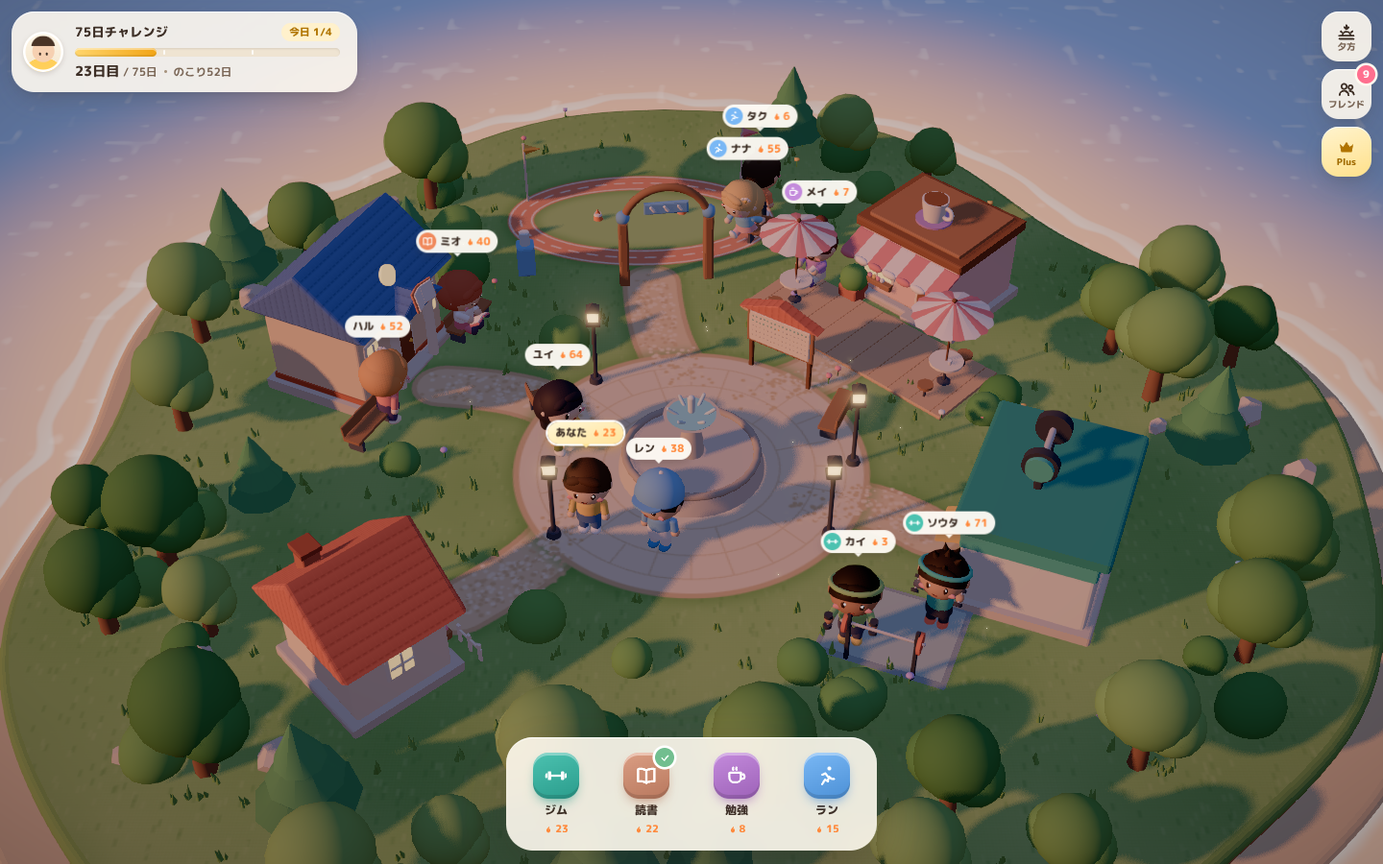
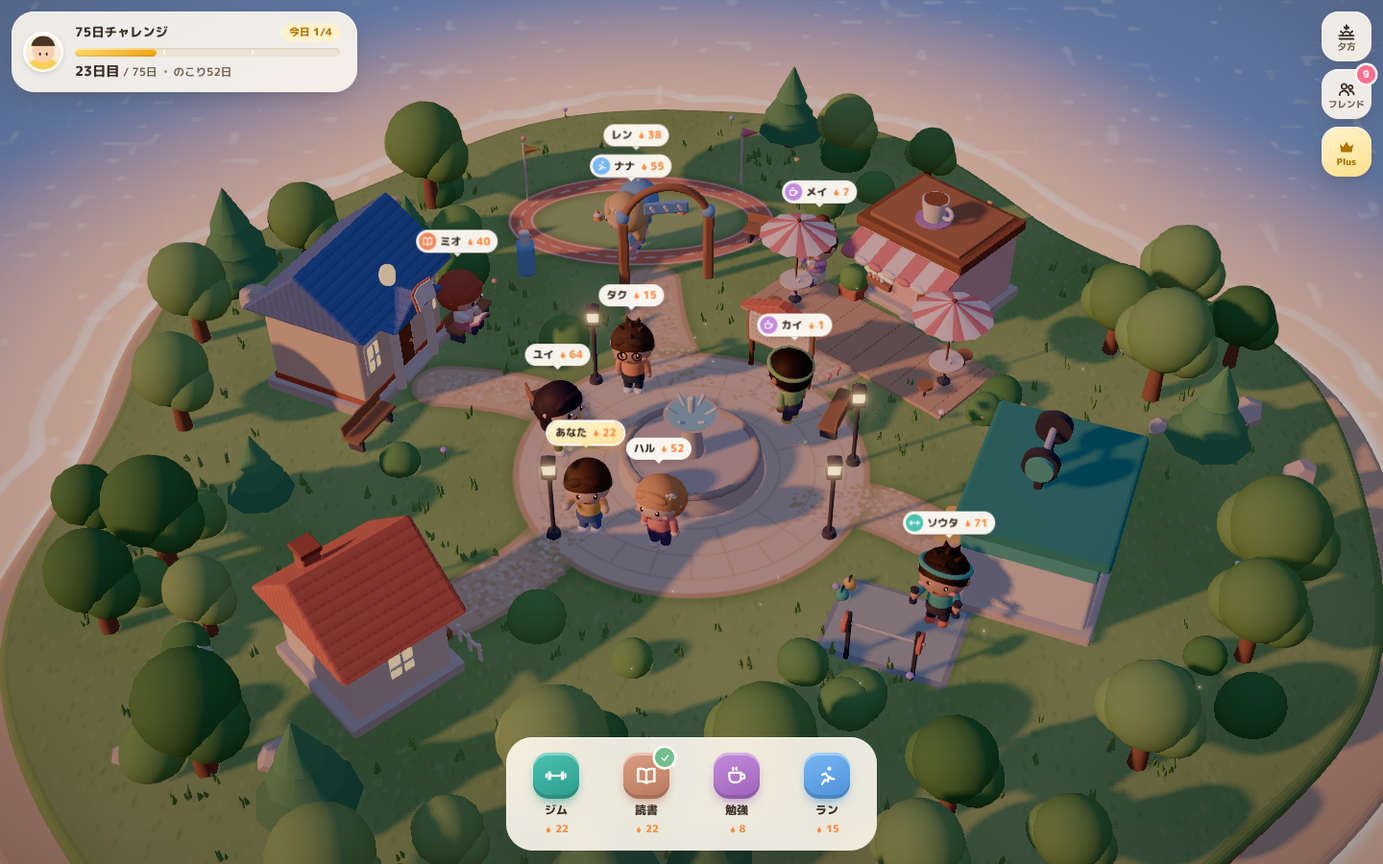
Habit Town: revise LP/ad plans for 75 days, fix starting gym streak, reshoot screenshots
Claude-Session: https://claude.ai/code/session_0146dGXZraJYKmCTfuWKbKM6

diff --git a/projects/habit-town/app/src/data/habits.ts b/projects/habit-town/app/src/data/habits.ts
@@ -76,7 +76,7 @@ const rawPeople: Omit<Person, 'slot'>[] = [
       accent: '#ffcf5a',
     },
     day: 23,
-    streaks: s(23, 22, 8, 15),
+    streaks: s(22, 22, 8, 15),
     activity: null,
     since: now,
   },

diff --git a/projects/habit-town/stages/03_lp/lp-copy-abc.md b/projects/habit-town/stages/03_lp/lp-copy-abc.md
@@ -1,9 +1,14 @@
 # LPコピー A/B/C — Habit Town（事前登録・ウェイトリスト）
 
-- 作成: カエデ / 2026-11-12
+- 作成: カエデ / 2026-11-12（同日改訂: チャレンジを「75週」から「**75日**」に訂正）
 - 目的: G1のCPA検証用（`../04_cpa/test-plan.md`）。広告の切り口ごとに専用のLPを1枚ずつ用意する（`/a`・`/b`・`/c`）
 - フォーム: **メール欄1つだけ**（ほかの項目を足すとCVRが落ちるため）。送信すると `/thanks`（招待リンク＋アンケート1問）へ進む
 - 素材の置き場: `projects/habit-town/app/docs/screenshots/`（以下、`ss/` と略す）。動画IDは `ad-creatives.md` を参照
+
+> **重要: スクショは撮り直しが必要**
+> いまリポジトリにある `ss/*.png` の6枚は、**修正前のデータ**（「75週チャレンジ・第12週」「🔥201」「🔥300」など）のまま。
+> そのまま使うと「75週」の表記が出てしまうので、**修正後のアプリで同じファイル名・同じ構図のまま撮り直してから**使う（下の「依存事項」を参照）。
+> この文書に書いた画面上の数値は、修正後のサンプルデータに合わせてある。
 
 ---
 
@@ -14,15 +19,15 @@
 | CTAの文言 | 3案とも同じ **「無料で事前登録」** にする（切り口以外の差をなくすため）。その下に置く一言（マイクロコピー）だけを案ごとに変える |
 | 開発中の表記 | ファーストビューのラベル「開発中・事前登録受付中」と、画像の下の注記「※画面は開発中のものです」を全案に入れる |
 | 未実装の機能 | **すでに使える機能のように書かない**。ラベルは2段階に分ける<br>・`開発予定`：作ることが決まっている機能（ジム到着の自動記録、ランのGPS計測）<br>・`構想中`：作るかどうかを登録者の声で決める機能（SNS・動画の使用時間、友達と会った回数アルバム） |
-| プロトタイプにある機能の書き方 | 町・キャラの移動・お祝い・友達の状況と連続日数・拍手とハート・朝昼夕夜の時間帯は、プロトタイプで動いている。ただしアプリ自体は未公開なので、「〜できます」ではなく **「〜できる町を作っています」「リリース時に使えます」** と書く |
+| プロトタイプにある機能の書き方 | 町・キャラの移動・お祝い・友達の状況と連続日数・拍手とハート・朝昼夕夜の時間帯・75日チャレンジの進捗カードは、プロトタイプで動いている。ただしアプリ自体は未公開なので、「〜できます」ではなく **「〜できる町を作っています」「リリース時に使えます」** と書く |
 | 料金 | 「基本無料。着せ替えなどの有料プラン（月額¥480の予定）あり」。予定であることを明記する |
 | 飲酒 | 飲み会・お酒の話題はLPに出さない。人と会う話題は「友達と会った回数」に統一する |
-| 撮影時の注意 | プロトタイプの画面上部には「75週チャレンジ」のカードが常に出る。**A・BのLPと動画では、このカードをトリミングで外すか、タクミに撮影用のフラグ（例: `?hud=minimal`）を追加してもらう**（下の「依存事項」を参照） |
+| 撮影時の注意 | プロトタイプの画面上部には「75日チャレンジ 23日目／75日・のこり52日」のカードが常に出る。**A・Bでは、このカードがCの訴求（期限つきのチャレンジ）を画面に持ち込んでしまい、切り口の比較が混ざる**。そのため、A・BのLPと動画ではカードをトリミングで外すか、タクミに撮影用のフラグ（例: `?hud=minimal`）を追加してもらう。Cではこのカードを主役として使う |
 
 ### 共通セクション：データの扱い（3案とも、料金の前に入れる）
 
 > **あなたのデータは、あなたが決める。**
-> - **地図に現在地は出ません。** 町で友達に見えるのは「ジムで筋トレ中・201日連続」のような、**いまの習慣と連続日数だけ**です。
+> - **地図に現在地は出ません。** 町で友達に見えるのは「ジムで筋トレ中・71日連続」のような、**いまの習慣と連続日数だけ**です。
 > - 見えるのは**フォローし合った友達だけ**。知らない人に公開されることはありません。
 > - 位置情報を使う「ジム到着の自動記録」（開発予定）は、**オンにした人だけ**が使う機能です。使うのは「ジムに着いたかどうか」の判定だけで、移動の履歴を友達に共有することはありません。
 > - SNSや動画の使用時間（構想中）は、**自分で連携をオンにしない限り取得しません**。ランキングに出すかどうかも自分で選べます。
@@ -46,6 +51,7 @@
 - **無料ですか？** → 基本無料です。着せ替えなどの有料プラン（月額¥480の予定）があります。
 - **iPhone・Androidのどちらで使えますか？** → 両方に対応する予定です。
 - **友達がいなくても使えますか？** → 使えます。町はひとりでも動きます。
+- **75日が終わったら？**（Cでは上位に置く）→ 町とキャラはそのまま残り、次の75日を始められる予定です。
 
 ---
 
@@ -57,13 +63,13 @@
 - サブコピー: 習慣を記録すると、あなたのキャラがジムや図書館へ歩いていく。フォローし合った友達も同じ町に住んでいて、**いま何をしていて、何日続いているか**が一目で分かる。
 - CTA: **［無料で事前登録］**
 - CTAの下の一言: 居場所ではなく、がんばりをシェアする町。登録はメールアドレスだけ。
-- ビジュアル: 動画 **V-A1** の冒頭6秒をループ再生（無音・自動再生）。静止画のフォールバックは `ss/mobile-town.png`（名札と🔥連続日数がたくさん見える構図）。画面上部のチャレンジカードはトリミングで外す
+- ビジュアル: 動画 **V-A1** の冒頭6秒をループ再生（無音・自動再生）。静止画のフォールバックは、撮り直した `ss/mobile-town.png`（名札と🔥連続日数がたくさん見える構図）。上部のチャレンジカードはトリミングで外す
 
 ### セクション構成
 1. ファーストビュー（上記）
-2. **「いま、町では」** — `ss/mobile-friends.png` を使い、「ハル 読書中🔥88／ソウタ 筋トレ中🔥201」が並ぶ画面で、**友達の今**を見せる。コピー:「LINEで『今日やった？』と聞かなくても、町を見れば分かる。」
-3. **3ステップ** — ①習慣をタップ ②キャラが歩いていく ③着いたらお祝い（`ss/mobile-celebrate.png`、または V-A1 の5〜9秒）
-4. **応援は1タップ** — `ss/desktop-night-profile.png`（ソウタのプロフィールと拍手・ハートのボタン、ハートが飛んでいる画面）。コピー:「コメントを考えなくていい。拍手かハートを送るだけ。」
+2. **「いま、町では」** — 撮り直した `ss/mobile-friends.png` を使い、「ハル 読書中🔥52／ソウタ 筋トレ中🔥71」が並ぶ画面で、**友達の今**を見せる。コピー:「LINEで『今日やった？』と聞かなくても、町を見れば分かる。」
+3. **3ステップ** — ①習慣をタップ ②キャラが歩いていく ③着いたらお祝い（撮り直した `ss/mobile-celebrate.png`、または V-A1 の12〜14秒）
+4. **応援は1タップ** — 撮り直した `ss/desktop-night-profile.png`（ソウタのプロフィールと拍手・ハートのボタン、ハートが飛んでいる画面）。コピー:「コメントを考えなくていい。拍手かハートを送るだけ。」
 5. **夜は街灯が灯る** — 夜の町の動画カット。コピー:「夜、町を開くと、まだがんばっている友達がいる。」
 6. **データの扱い**（共通セクション）← **Aの層は位置情報アプリに慣れているので、この節をAでは上に寄せて、4の直後に置く**
 7. これから作る機能（共通セクション）
@@ -88,15 +94,15 @@
 - サブコピー: 読書なら図書館へ、運動ならジムへ。小さな町に住むあなたのキャラが、毎日の積み重ねを一緒によろこんでくれる習慣アプリ。
 - CTA: **［無料で事前登録］**
 - CTAの下の一言: がんばれなかった日も、キャラは広場で待っています。登録はメールアドレスだけ。
-- ビジュアル: 動画 **V-B1**（自分のキャラをカメラが追いかけ、図書館で座って本を開くまで）。静止画は `ss/mobile-celebrate.png` を自分のキャラ中心にトリミングしたもの
+- ビジュアル: 動画 **V-B1**（自分のキャラをカメラが追いかけ、カフェで座ってノートを書くまで）。静止画は、撮り直した `ss/mobile-celebrate.png` を自分のキャラ中心にトリミングしたもの
 
 ### セクション構成
 1. ファーストビュー（上記）
-2. **3ステップ** — ①習慣をタップ ②キャラがトコトコ歩く ③着いたら紙吹雪と「◯日連続！」（`ss/mobile-celebrate.png`）
+2. **3ステップ** — ①習慣をタップ ②キャラがトコトコ歩く ③着いたら紙吹雪と「◯日連続！」（撮り直した `ss/mobile-celebrate.png`）
 3. **続けるほど、町に花が咲く** — お祝いのたびに花が生える様子（動画カット）。コピー:「チェックマークの代わりに、花が増えていく。」
 4. **場所ごとにキャラの過ごし方が違う** — ジムではダンベル、図書館では読書、カフェではノートを書いてカップを持ち上げる、公園ではトラックを走る（4カットのグリッド）
-5. **朝と夜で町が変わる** — `ss/desktop-noon.png` → `ss/desktop-evening.png` → 夜（街灯とホタル）。コピー:「朝のジムも、夜の読書も。あなたの時間に町が合わせてくれる。」
-6. **ひとりでも、友達とでも** — 友達は**いてもいなくても使える**ことを先に言い、そのうえで「仲良しの友達だけを町に招待できる」と短く触れる（`ss/mobile-friends.png` を小さく）
+5. **朝と夜で町が変わる** — 撮り直した `ss/desktop-noon.png` → `ss/desktop-evening.png` → 夜（街灯とホタル）。コピー:「朝のジムも、夜の読書も。あなたの時間に町が合わせてくれる。」
+6. **ひとりでも、友達とでも** — 友達は**いてもいなくても使える**ことを先に言い、そのうえで「仲良しの友達だけを町に招待できる」と短く触れる（撮り直した `ss/mobile-friends.png` を小さく）
 7. データの扱い（共通）
 8. これから作る機能（共通）
 9. 料金・FAQ（共通）
@@ -112,50 +118,60 @@
 
 ---
 
-## C：75週チャレンジ（今の案、自己改善層）
+## C：75日チャレンジ（今の案、自己改善層）— 作り直し
+
+### 方針
+75日は約2か月半。**終わりが見えている**ことが最大の武器になる。プロトタイプの上部カード「23日目／75日・のこり52日」と進捗バーが、そのまま「期限の見える自己改善」の絵になる。
+訴求の軸は **「75日で自分を変えにいく」×「のこり◯日が毎日見える」×「同じ町に、ゴール直前の友達がいる」**。
+（テスト期間は11月下旬。年末年始の「来年こそ」の時期に向かうので、季節も追い風）
 
 ### ファーストビュー
 - ラベル: `習慣アプリ｜開発中・事前登録受付中`
-- **見出し: 75週チャレンジを、ひとりで終わらせない。**
-- サブコピー: ジム・読書・勉強・ランを525日（約1年5か月）。記録するたびにあなたのキャラが町を歩き、続けるほど町に花が咲く。同じ町の友達と、連続日数で励まし合える。
+- **見出し: 75日で、自分を変えにいく。**
+- サブコピー: ジム・読書・勉強・ランを75日。記録するたびにあなたのキャラが町を歩き、「のこり◯日」がひと目で分かる。同じ町の友達と、連続日数で励まし合える。
 - CTA: **［無料で事前登録］**
-- CTAの下の一言: 75日で終わらない、本気の人へ。登録はメールアドレスだけ。
-- ビジュアル: 動画 **V-C1**。静止画は `ss/mobile-town.png` を、上部の「第12週／75週・80日目」のカードとドックの🔥の数字が主役になるようにトリミングしたもの
+- CTAの下の一言: ゴールは75日後。登録はメールアドレスだけ。
+- ビジュアル: 動画 **V-C1**。静止画は、撮り直した `ss/mobile-town.png` を、上部のカード「23日目／75日・のこり52日」と進捗バー、ドックの🔥の数字が主役になるようにトリミングしたもの
 
 ### セクション構成
 1. ファーストビュー（上記）
-2. **75週チャレンジとは** — 4つの習慣（ジム・読書・勉強・ラン）を75週間続ける。進捗バーと「第◯週／75週」で現在地が分かる（チャレンジカードを拡大）
-3. **3ステップ**（記録→移動→お祝い）
-4. **続けている人が町にいる** — 名札の🔥（201・300など）を見せる。コピー:「300日続けている人が、隣の家に住んでいる。」※ 画面の人物はサンプルであることを注記する
-5. **途切れそうな日の保険** — Plusの「ストリーク保護（月2回まで）」は**有料プランの予定**として紹介する（`予定` ラベルを付ける）
-6. データの扱い（共通）
-7. これから作る機能（共通）— Cでは「ランのGPS計測（開発予定）」を先頭に置く
-8. 料金・FAQ（共通）
-9. 最後のCTA:「第1週は、登録した日から。」［無料で事前登録］
+2. **ルールはシンプル** — 4つの習慣（ジム・読書・勉強・ラン）を75日。上部のカードの「◯日目／75日・のこり◯日」と進捗バーで、いまどこにいるかが毎日分かる（カードを拡大して見せる）。コピー:「終わりが見えるから、今日もやれる。」
+3. **3ステップ**（記録→移動→お祝い）。「今日 1/4 → 2/4」と、今日のノルマが埋まっていく様子を見せる
+4. **ゴール直前の友達が、同じ町にいる** — ソウタ（71日目・ジム🔥71）のプロフィール。コピー:「隣の家のソウタは、あと4日でゴール。」※ 画面の人物はサンプルであることを注記する
+5. **75日目に何が起きる？** — **書かない／約束しない**。完走時の特別な演出はまだ実装していないので、「完走したら町に◯◯が建つ」などとは書かない。どうしても触れるなら「完走のお祝いを準備中（開発予定）」と表記する
+6. **途切れそうな日の保険** — Plusの「ストリーク保護（月2回まで）」は**有料プランの予定**として紹介する（`予定` ラベルを付ける）
+7. データの扱い（共通）
+8. これから作る機能（共通）— Cでは「ランのGPS計測（開発予定）」を先頭に置く
+9. 料金・FAQ（共通。「75日が終わったら？」を先頭に置く）
+10. 最後のCTA:「1日目は、登録した日から数えはじめよう。」［無料で事前登録］
 
 ### 表現の注意（C固有）
-- 体型の変化やビフォーアフターを約束しない（媒体の審査と景品表示法のリスクがある）。「別人になる」「痩せる」は使わない。
-- 75 Hard（海外の過酷系チャレンジ）の名前は使わない（他社のブランドであり、イメージも「過酷」に寄るため）。
+- 「人生が変わる」「別人になる」と**結果を約束しない**。「変えにいく」「本気の75日」のように、本人の意思として書く。
+- 体型の変化やビフォーアフター、「痩せる」は使わない（媒体の審査と景品表示法のリスクがある）。
+- 75 Hard（海外の過酷系チャレンジ）の名前は使わない。他社のブランドであり、本家のルール（食事制限・禁酒など）を連想させるため。食事や飲酒のルールには一切触れない。
+- 「75日やらないと意味がない」のように、脱落者を責める言い方はしない。
 
-### 1秒テストの自己採点：**2.5 / 5**
+### 1秒テストの自己採点：**4.0 / 5**（改訂前の「75週」版は2.5）
 | 観点 | 点 | 理由 |
 |---|---|---|
-| 見出しだけで「何か」が分かる（2点） | 1 | 「75週チャレンジ」を知らない人には説明が必要。75週＝約1年5か月という長さも一瞬では分からない |
-| 自分ごとになる（1点） | 0.5 | 刺さる人には強く刺さるが、母数が小さい。「長すぎる」と感じて離脱する人も出る |
-| 絵だけで差別化が分かる（1点） | 0.5 | 箱庭の絵は強いが、コピーがチャレンジの話なので、絵とメッセージが噛み合いにくい |
-| CTAが明確（1点） | 0.5 | 「無料で事前登録」は明確だが、「75週も続けられるか」という不安が、登録をためらわせる |
+| 見出しだけで「何か」が分かる（2点） | 1.5 | 「75日」と「変えにいく」だけで、期限つきの自己改善だと瞬時に伝わる。ただ、Aと同じく、見出しだけでは習慣アプリだと分からず、ラベルで補っている |
+| 自分ごとになる（1点） | 1 | 75日（約2か月半）は「やれそう」と思える長さ。改訂前の「長すぎる」という弱点が消えた。年末年始の目標を立てる時期とも重なる |
+| 絵だけで差別化が分かる（1点） | 0.5 | 進捗カードと🔥の名札で、絵とメッセージが噛み合うようになった。ただ、カードの文字は小さいので、フィードでは一瞬で読みにくい。「チャレンジの進捗バー」自体は、他のチャレンジアプリにもある |
+| CTAが明確（1点） | 1 | 「ゴールは75日後」で、登録した後の行動がはっきりした |
 
 ---
 
 ## サンクスページ（`/thanks`、3案共通）
 - 見出し:「あなたの家の場所を確保しました。」
 - 本文: 確認メールを送りました。リンクを押すと登録が完了します。
-- **友達を町に招待**（Aの検証で重要）: 招待リンクのコピーボタン。文言「先に町で待ってて、と送る」
+- **友達を町に招待**（Aの検証で重要）: 招待リンクのコピーボタン。文言「先に町で待ってて、と送る」。Cでは「一緒に75日やろう、と送る」
 - アンケート1（1タップ）:「一番欲しいのはどれ？」→ ジム到着の自動記録（開発予定）／ランのGPS計測（開発予定）／スマホ時間の見える化（構想中）／友達と会った回数アルバム（構想中）／特になし
 - アンケート2（1タップ）:「誰と使いたい？」→ ひとりで／友達1〜3人／友達4人以上／恋人・家族
 
 ---
 
-## 依存事項（タクミへの小さな依頼）
-1. 撮影用に、画面上部のチャレンジカードを隠すか文言を差し替えられるURLパラメータ（例: `?hud=minimal`、`?title=`）。A・Bの撮影で「75週チャレンジ」の文字が映り込むのを避けるため。急ぎでなければトリミングで代用する
-2. 撮影時に、時間帯を固定するURLパラメータ（例: `?time=night`）。現在は右上のボタンで切り替えられるので、なくても撮影はできる
+## 依存事項（タクミへの依頼）
+1. **スクショ6枚の撮り直し**（必須）: `ss/` の6枚は修正前のデータのまま。修正後のアプリで、同じファイル名・同じ構図で撮り直す
+2. 撮影用に、上部のチャレンジカードを隠すURLパラメータ（例: `?hud=minimal`）。**A・Bの撮影で「75日チャレンジ」のカードが映ると、Cの訴求（期限つきのチャレンジ）が混ざって、切り口の比較が成り立たなくなる**ため。急ぎでなければトリミングで代用する
+3. 撮影時に、時間帯を固定するURLパラメータ（例: `?time=night`）。現在は右上のボタンで切り替えられるので、なくても撮影はできる
+4. 自分の初期データの小さな矛盾の修正: 「23日目」なのにジムの連続日数が23で、今日の記録をするとバナーが「24日連続」になる（75日チャレンジの日数を超える）。ジムの初期値を22にしてほしい。修正後は「ジム 23日連続」になり、V-A1の台本もこの値で書いている

diff --git a/projects/habit-town/stages/03_lp/ad-creatives.md b/projects/habit-town/stages/03_lp/ad-creatives.md
@@ -1,6 +1,6 @@
 # 広告クリエイティブ A/B/C — Habit Town
 
-- 作成: カエデ / 2026-11-12
+- 作成: カエデ / 2026-11-12（同日改訂: チャレンジを「75週」から「**75日**」に訂正。Cは作り直し、A・Bは修正後のサンプル値に合わせて更新）
 - 使う場所: Instagram（リール・ストーリーズ・フィード、フェーズ1）／TikTok（フェーズ2）／X（オーガニック中心）
 - 検証設計: `../04_cpa/test-plan.md` ／ 遷移先のLP: `lp-copy-abc.md`
 
@@ -13,20 +13,25 @@
 | 撮れる素材 | 操作 |
 |---|---|
 | 町の全景（朝・昼・夕・夜） | 右上の時間帯ボタンで切り替える。約1.5秒かけて光が変わり、夜は街灯・窓・星・ホタルが灯る |
+| 75日チャレンジのカード | 画面上部。「75日チャレンジ」「今日 1/4」、進捗バー、「23日目 / 75日・のこり52日」 |
 | 記録 → 移動 | 下のドックの習慣をタップすると、ボタンが「移動中…」になり、自分のキャラが道を歩いていく（カメラが追いかける） |
 | 場所ごとの動き | ジム＝ダンベルとスクワット／図書館＝座って読書／カフェ＝ノートを書き、ときどきカップを持ち上げる／公園＝トラックを周回 |
-| お祝い | 建物がぽよんと弾む、金色のリング、紙吹雪、バンザイ、花が5本生える。バナー「◯◯を記録しました 🔥N日連続！」の数字がカウントアップする |
-| 友達の状況 | 名札（例:「ソウタ 🔥201」）。フレンドボタンを押すと一覧が開き、「6人ががんばり中」「読書中」「筋トレ中」と表示される |
-| プロフィールと応援 | 名札かキャラをタップするとシートが開く（「ジムで筋トレ中・35分前から」と4つの連続日数）。拍手・ハートを押すと、ハートや星が浮かび、相手のキャラが跳ねる |
+| お祝い | 建物がぽよんと弾む、金色のリング、紙吹雪、バンザイ、花が5本生える。バナー「◯◯を記録しました 🔥N日連続！」の数字がカウントアップする。上部の「今日 N/4」も1つ増える |
+| 友達の状況 | 名札（例:「ソウタ 🔥71」）。フレンドボタンを押すと一覧が開き、「◯人ががんばり中」（人数はシミュレーションで変わる）、「読書中」「筋トレ中」と表示される |
+| プロフィールと応援 | 名札かキャラをタップするとシートが開く（例: ソウタ「71日目」「ジムで筋トレ中・35分前から」、4つの連続日数 ジム71・読書14・勉強40・ラン66）。拍手・ハートを押すと、ハートや星が浮かび、相手のキャラが跳ねる |
 | 招待 | 「＋ 友達を町に招待する」を押すと、「招待リンクをコピーしました」のトーストが出る |
+
+**修正後のサンプルデータ（台本の数値の前提）**
+- 自分: 23日目。ジム22（※初期値を23から22に直す依頼中。`lp-copy-abc.md` の依存事項4）・読書22（今日は記録済み）・勉強8・ラン15
+- 友達: ソウタ 71日目・ジム中🔥71／ユイ 🔥64（広場）／ナナ ラン中🔥55／ハル 読書中🔥52／ミオ 読書中🔥40／レン ラン中🔥38／タク 🔥15（広場）／メイ 勉強中🔥7／カイ ジム中🔥3
 
 **撮影の仕様**
 - 9:16の縦長、1080×1920で撮る。実機のfpsは未計測なので、**PCのブラウザを縦長の画面サイズにして画面録画**する（ヘッドレスで撮る場合は `?dtmax=` を使う）。
-- 開始時の数値はプロトタイプの初期値（自分: ジム23・読書41（記録済み）・勉強8・ラン15）。各台本は、この数値に合わせて書いている。
-- A・Bでは、画面上部の「75週チャレンジ」のカードをトリミングで外すか、撮影用フラグで隠す（`lp-copy-abc.md` の「依存事項」を参照）。
+- **リポジトリにある `ss/*.png` は修正前（75週・🔥201/300）のままなので、使う前に撮り直す。**
+- **A・Bでは、上部の「75日チャレンジ」のカードをトリミングで外すか、撮影用フラグ `?hud=minimal` で隠す。** カードが映ると、Cの「期限つきのチャレンジ」という訴求がA・Bにも混ざり、切り口の比較が成り立たなくなるため。Cではカードを主役として使う。
 - **全カットの右下に「※画面は開発中のものです・人物はサンプル」を常に表示する**（町の友達はシミュレーションのため）。
 - 音: アプリにはまだ効果音がない。各媒体の商用利用できる楽曲ライブラリから、BGMを1曲だけ使う。テロップは音なしでも伝わるようにする。
-- テロップは画面の上から約3分の1の位置に置く（下部はドックとUIが隠れるため使わない）。
+- テロップは画面の上から約3分の1の位置に置く（下部はドックとUIが隠れるため使わない。Cでは上部のカードとも重ならないように調整する）。
 - 終わりのカード: 見出し＋「Habit Town｜開発中・事前登録受付中」＋「無料で事前登録」のボタン風の表示。
 
 **ファイル命名**: `V-A1`（Aの動画）、`S-A1`・`S-A2`（Aの静止画）。UTMの `utm_content` にもこのIDを入れる。
@@ -39,24 +44,24 @@
 | 秒 | 画面（プロトタイプの操作） | テロップ |
 |---|---|---|
 | 0〜1 | **夜**の町の全景。街灯・窓の灯り・ホタル。名札がたくさん浮いている | 友達、いま何してる？ |
-| 1〜3 | 広場へゆっくりズームイン。「ソウタ 🔥201」「ハル 🔥88」の名札が近づく | ソウタはジムで201日目。 |
-| 3〜5 | フレンドボタンをタップ → 一覧（「6人ががんばり中」「読書中」「筋トレ中」） | 町を開けば、全員の「今」が分かる |
+| 1〜3 | 広場へゆっくりズームイン。「ソウタ 🔥71」「ハル 🔥52」の名札が近づく | ソウタはジムで71日連続。 |
+| 3〜5 | フレンドボタンをタップ → 一覧（「◯人ががんばり中」「読書中」「筋トレ中」） | 町を開けば、全員の「今」が分かる |
 | 5〜7 | 一覧のソウタをタップ → プロフィール「ジムで筋トレ中・35分前から」 | — |
 | 7〜9 | 「ハート」をタップ → ハートが浮かび、ソウタのキャラが跳ねる | 応援は1タップ |
 | 9〜12 | シートを閉じ、ドックの「ジム」をタップ → 自分のキャラが友達の横を通ってジムへ歩く | 自分も記録すると、キャラがジムへ |
-| 12〜14 | 到着 → お祝い（紙吹雪・バンザイ）＋バナー「ジムを記録しました 🔥24日連続！」 | — |
+| 12〜14 | 到着 → お祝い（紙吹雪・バンザイ）＋バナー「ジムを記録しました 🔥23日連続！」 | — |
 | 14〜15 | 終わりのカード | **友達のがんばりが、町で見える。** |
 
 - 冒頭を差し替えた版（V-A1b、CTRが低いとき用）: 0〜1秒を**昼**の全景に替え、テロップを「居場所じゃなくて、がんばりをシェアする町」にする。
 
 ### 静止画 S-A1
-- 画像: `ss/mobile-town.png`（上部のカードはトリミングで外す）
+- 画像: 撮り直した `ss/mobile-town.png`（上部のカードはトリミングで外す）
 - 画像上の文字: **友達のがんばりが、町で見える。**
 - 本文: 習慣を記録すると、キャラがジムや図書館へ歩いていく。フォローし合った友達が「いま何をしていて、何日続いているか」が町で一目で分かる習慣アプリを開発中。居場所ではなく、がんばりだけをシェアします。事前登録受付中。
 - 見出し（リンクの表示欄）: 無料で事前登録
 
 ### 静止画 S-A2
-- 画像: `ss/mobile-friends.png`（一覧で「読書中」「筋トレ中」「🔥201」が並んでいる画面）
+- 画像: 撮り直した `ss/mobile-friends.png`（一覧で「読書中」「筋トレ中」「🔥71」が並んでいる画面）
 - 画像上の文字: **「今日やった？」って聞かなくていい。**
 - 本文: 友達のキャラが、ジムで筋トレ中。図書館で読書中。町を開けば、聞かなくても分かる。応援は拍手かハートを1タップ。現在地は地図に出ません。※画面は開発中のものです
 - 見出し: 友達の今が見える習慣アプリ
@@ -89,13 +94,13 @@
 - 冒頭を差し替えた版（V-B1b）: 0〜1秒を、お祝いのバンザイジャンプのアップから始める（結果を先に見せる構成）。
 
 ### 静止画 S-B1
-- 画像: `ss/mobile-celebrate.png`（自分のキャラと紙吹雪が中心になるようにトリミング）
+- 画像: 撮り直した `ss/mobile-celebrate.png`（自分のキャラと紙吹雪が中心になるようにトリミング。上部のカードは入れない）
 - 画像上の文字: **チェックマークの代わりに、キャラがよろこぶ。**
 - 本文: 習慣を記録すると、あなたのキャラが町の図書館やジムへ歩いていき、着いたら紙吹雪でお祝い。続けるほど町に花が増えていく、箱庭の習慣アプリを開発中です。事前登録受付中。
 - 見出し: 無料で事前登録
 
 ### 静止画 S-B2
-- 画像: `ss/desktop-evening.png`（夕方の町。9:16に合わせて中央をトリミング）
+- 画像: 撮り直した `ss/desktop-evening.png`（夕方の町。9:16に合わせて中央をトリミングし、左上のカードは外す）
 - 画像上の文字: **がんばれなかった日も、町はここにある。**
 - 本文: 読書なら図書館へ、運動ならジムへ。小さな町のキャラと一緒に、毎日の習慣をゆっくり続けよう。朝と夜で町の景色も変わります。※画面は開発中のものです
 - 見出し: キャラと続ける習慣アプリ
@@ -112,36 +117,42 @@
 
 ---
 
-## C：75週チャレンジ
+## C：75日チャレンジ（作り直し）
+
+訴求の軸は「75日で自分を変えにいく」×「のこり◯日が毎日見える」×「ゴール直前の友達が同じ町にいる」。期限が見えることを、最初の1秒で画面に出す。
 
 ### 動画 V-C1（15秒・縦）
 | 秒 | 画面（プロトタイプの操作） | テロップ |
 |---|---|---|
-| 0〜1 | 上部のカード「第12週 / 75週・80日目」と進捗バーのアップ | 75週チャレンジ、80日目 |
-| 1〜3 | カメラを引いて町の全景へ。「ユイ 🔥300」「ソウタ 🔥201」の名札 | 同じ町に、300日続けている人がいる |
-| 3〜4 | ドックの「ラン」をタップ → 「移動中…」 | — |
-| 4〜8 | キャラが公園へ走っていき、トラックを周回する | ランを記録 → キャラが公園へ |
-| 8〜11 | お祝い＋バナー「ランを記録しました 🔥16日連続！」。上部の「今日 1/4」が「2/4」に変わる | 今日のノルマ 2/4 |
-| 11〜13 | ドックのアップ（ジム🔥23・読書🔥41・勉強🔥8・ラン🔥16） | ジム・読書・勉強・ラン。4つを525日 |
-| 13〜15 | 終わりのカード | **75週チャレンジを、ひとりで終わらせない。** |
+| 0〜1 | 上部のカードのアップ。「75日チャレンジ」、進捗バー、「23日目 / 75日・のこり52日」 | 75日で、自分を変えにいく。 |
+| 1〜3 | カメラを引いて町の全景へ（昼）。「ソウタ 🔥71」「ナナ 🔥55」の名札 | 同じ町に、あと4日でゴールの人がいる |
+| 3〜5 | ソウタの名札をタップ → プロフィール「71日目」「ジムで筋トレ中」→「拍手」をタップ。エフェクトが浮かび、ソウタが跳ねる | ゴール直前の友達に、拍手 |
+| 5〜6 | シートを閉じ、ドックの「ラン」をタップ → 「移動中…」 | 自分は、23日目 |
+| 6〜9 | キャラが公園へ走っていき、トラックを周回する | ランを記録 → キャラが公園へ |
+| 9〜12 | お祝い＋バナー「ランを記録しました 🔥16日連続！」。上部の「今日 1/4」が「2/4」に変わる | 今日のノルマ、2/4 |
+| 12〜13 | もう一度、上部のカードのアップ（「のこり52日」） | 終わりが見えるから、今日もやれる |
+| 13〜15 | 終わりのカード | **75日で、自分を変えにいく。** |
+
+- 冒頭を差し替えた版（V-C1b、CTRが低いとき用）: 0〜1秒を、ソウタのプロフィール「71日目」のアップに替え、テロップを「あと4日でゴール。」にする（他人のゴール直前の瞬間から入る構成）。
 
 ### 静止画 S-C1
-- 画像: `ss/mobile-town.png`（上部のチャレンジカードとドックが入る全体）
-- 画像上の文字: **75週。ひとりじゃ無理でも、町なら続く。**
-- 本文: ジム・読書・勉強・ランを75週（525日）。記録するたびにあなたのキャラが町を歩き、同じ町の友達と連続日数で励まし合える、チャレンジ用の習慣アプリを開発中。事前登録受付中。
+- 画像: 撮り直した `ss/mobile-town.png`（上部のカード「23日目／75日・のこり52日」とドックが入る全体）
+- 画像上の文字: **のこり52日。終わりが見えるから、続く。**
+- 本文: ジム・読書・勉強・ランを75日。記録するたびにあなたのキャラが町を歩き、「のこり◯日」が毎日ひと目で分かる。同じ町の友達と連続日数で励まし合える、75日チャレンジ用の習慣アプリを開発中。事前登録受付中。
 - 見出し: 無料で事前登録
 
 ### 静止画 S-C2
-- 画像: `ss/desktop-night-profile.png`（ソウタの「第48週」と、4つの習慣の連続日数が並ぶプロフィール）
-- 画像上の文字: **第48週の友達が、隣でまだ走ってる。**
-- 本文: 75週チャレンジの現在地が、町で一目で分かる。途中で止まりそうな日は、友達のがんばりが見える。拍手・ハートで1タップ応援。※画面は開発中のもの・人物はサンプルです
-- 見出し: 75週チャレンジ用アプリ
+- 画像: 撮り直した `ss/desktop-night-profile.png`（ソウタの「71日目」と、4つの習慣の連続日数が並ぶプロフィール、夜の街灯）
+- 画像上の文字: **隣のソウタは、あと4日でゴール。**
+- 本文: 75日チャレンジの現在地が、町で一目で分かる。止まりそうな日も、ゴール直前の友達のがんばりが見える。拍手・ハートで1タップ応援。※画面は開発中のもの・人物はサンプルです
+- 見出し: 75日チャレンジ用アプリ
 
 ### Xの投稿案（C）
-> 75週チャレンジ（ジム・読書・勉強・ランを525日）を続けるためのアプリを作ってる。
+> 75日チャレンジ（ジム・読書・勉強・ランを75日）を続けるためのアプリを作ってる。
 >
+> 画面の上にいつも「23日目 / 75日・のこり52日」。
 > 記録すると自分のキャラが町のジムや公園へ移動して、同じ町の友達の連続日数も名札で見える。
-> 300日続けてる人が隣の家にいたら、サボれない。
+> あと4日でゴールの友達が隣の家にいたら、今日はサボれない。
 >
 > 開発中。事前登録→（LPのURL）
 > （V-C1を添付）
@@ -150,9 +161,11 @@
 
 ## 審査・表現のチェックリスト（入稿前に全項目を確認する）
 - [ ] 「開発中」「画面は開発中のものです」が、動画・静止画・本文のどこかに必ず入っている
-- [ ] 未実装の機能（ジム自動判定・GPS・使用時間・会った回数）を、映像にも本文にも**使える機能として出していない**
-- [ ] 体型の変化・ビフォーアフター・「痩せる」「別人になる」を使っていない
+- [ ] 素材は**修正後のアプリで撮り直したもの**で、「75週」「第◯週」「🔥201」「🔥300」が映っていない
+- [ ] A・Bの素材に「75日チャレンジ」のカードが映っていない
+- [ ] 未実装の機能（ジム自動判定・GPS・使用時間・会った回数・75日完走時の演出）を、映像にも本文にも**使える機能として出していない**
+- [ ] 「人生が変わる」「別人になる」と結果を約束していない。体型の変化・ビフォーアフター・「痩せる」を使っていない
 - [ ] 「あなたは三日坊主」のように、見る人の性質を断定する言い方をしていない（Metaの個人的特性に関するポリシー）
-- [ ] 飲酒・飲み会を連想させる表現を使っていない
+- [ ] 飲酒・飲み会・食事制限を連想させる表現を使っていない（75 Hard本家のルールも連想させない）
 - [ ] 他社名（Finch、whoo、Zenly、75 Hard）を広告に出していない
 - [ ] 既存ゲームのキャラ・UI・音を使っていない（ブリーフのルール）。BGMは商用利用できるライブラリのもの

diff --git a/projects/habit-town/stages/04_cpa/test-plan.md b/projects/habit-town/stages/04_cpa/test-plan.md
@@ -1,6 +1,6 @@
 # G1 需要検証設計（CPAテスト）— Habit Town
 
-- 作成: カエデ（マーケ/グロース） / 2026-11-12
+- 作成: カエデ（マーケ/グロース） / 2026-11-12（同日改訂: チャレンジを「75週」から「75日」に訂正。予算と判定ルールは変更なし）
 - ゲート: G1（通過基準 **CPA ¥100〜300**）
 - 状態: **出稿予算の承認待ち**（判定者: ソラ）
 - 関連: LPコピー `../03_lp/lp-copy-abc.md` / 広告クリエイティブ `../03_lp/ad-creatives.md` / Build in Public `../03_lp/build-in-public.md`
@@ -9,7 +9,7 @@
 ---
 
 ## 0. このテストで答える問い
-1. 3つの切り口（A 友達の今が見える町／B キャラと一緒に続く／C 75週チャレンジ）のうち、**CPA ¥300以下で登録が取れる切り口はあるか**（G1の判定材料）
+1. 3つの切り口（A 友達の今が見える町／B キャラと一緒に続く／C 75日チャレンジ）のうち、**CPA ¥300以下で登録が取れる切り口はあるか**（G1の判定材料）
 2. 勝った切り口は**どの層（年齢・性別）**に刺さったか（G2でリンがMVPスコープを決めるための材料）
 3. 未実装のアイデア（ジム自動判定・ランGPS・「ドパガキ度」・「今年◯回会った」）のうち、**登録者が一番欲しがるのはどれか**（登録後のアンケートで取る）
 
@@ -23,6 +23,8 @@
 | **TikTok** | **フェーズ2。上位2つの切り口を別の媒体でも確認する** | ①Aの層（Zenly・whooの世代、18〜24歳）が最も厚い ②3D箱庭の「ミニチュアが動く」映像は、音なしでも最初の1秒で止めてもらいやすい ③1媒体の結果だけで判定すると、媒体のクセを切り口の差と取り違える危険がある | 広告グループの日予算は**最低20米ドル（約¥3,000）**、キャンペーンに日予算を設定する場合は最低50米ドル（公式ヘルプ）。3案すべてを流すと費用がかさむため、上位2つに絞る |
 | **X** | **主にオーガニック（Build in Public）。広告は任意枠** | ①開発の過程や「ドパガキ度」のようなネタは、Xで最も拡散しやすい ②インディー開発の界隈で応援者を作れる | X広告は、少額で比べる媒体としてはCPCが高くなりやすく、最適化の精度も読みにくい（社内実績はない）。比較の本線には入れない |
 | Google・Apple Search Ads | 対象外 | — | アプリがまだストアにない。検索の需要（「習慣 アプリ」）は既存アプリとの比較目的が多く、新しい体験の需要検証には向かない |
+
+**時期について**: テスト期間（11月下旬）は、年末年始の「来年こそ」の時期の直前。期限つきの自己改善を訴えるCには追い風になりうる。そのため、Cが勝った場合は「季節要因で上振れした可能性」を報告に注記し、年明け以降に再確認するかをソラが判断できるようにする。
 
 **ターゲティングの原則（重要）**: フェーズ1は**3案とも同じ配信先**にする（日本、18〜34歳、性別指定なし、興味関心は指定しないブロード配信）。
 切り口ごとに配信先まで変えると、「切り口の差」と「配信先の差」が混ざって比較できなくなる。配信先は揃えたまま、**誰が反応したかは配信後の年齢×性別の内訳で読む**。
@@ -59,7 +61,7 @@
 
 | フェーズ | 期間（承認された場合の想定日） | 媒体 | 内容 | 予算 |
 |---|---|---|---|---|
-| 0 準備 | 11/13(金)〜11/17(火) | — | LP 3枚＋フォーム＋計測を実装、動画の撮影、広告の審査 | ¥0 |
+| 0 準備 | 11/13(金)〜11/17(火) | — | LP 3枚＋フォーム＋計測を実装。修正後（75日版）のアプリでスクショ6枚と動画を撮り直す。広告の審査 | ¥0 |
 | **1 本線** | **11/18(水)〜11/24(火)の7日間** | Instagram（Meta A/Bテスト） | A・B・Cを各¥15,000（1日あたり約¥2,150）。7日あれば平日と週末を両方含められる | **¥45,000** |
 | 2 媒体の再現性 | 11/25(水)〜11/29(日)の5日間 | TikTok | フェーズ1の上位2案を、各¥15,000（1日¥3,000×5日） | **¥30,000** |
 | 予備 | 必要なときだけ | 勝った媒体 | グレーゾーン（後述）の案を1回だけ改善して再テストする | ¥10,000 |

diff --git a/projects/habit-town/stages/03_lp/build-in-public.md b/projects/habit-town/stages/03_lp/build-in-public.md
@@ -1,6 +1,6 @@
 # Build in Public 発信計画（2週間）— Habit Town
 
-- 作成: カエデ / 2026-11-12
+- 作成: カエデ / 2026-11-12（同日改訂: 75日チャレンジへの訂正を反映。11/21に75日のネタを追加。動画・画像は修正後のアプリで撮り直したものを使う）
 - 期間: **11/16(月)〜11/29(日)**（広告テストのフェーズ0〜2と並行）
 - 発信者: 創業者の個人アカウント（X・TikTok）。カエデが下書きを作り、創業者が自分の言葉に直して投稿する
 
@@ -27,6 +27,7 @@
 | 11/18(水) | X・TikTok | **お祝いの演出** | 「紙吹雪98枚を、ゆっくり舞うように調整した」。お祝いのアップ | V-B1の8〜11秒 | 視聴維持率（TikTok） |
 | 11/19(木) | X | **アンケート：一番欲しい機能は？** | ①ジム到着の自動記録 ②ランのGPS ③スマホ時間ランキング ④友達と会った回数。すべて「構想中・開発予定」と明記 | テキストのみ | 投票数と比率 → サンクスページのアンケートと照合 |
 | 11/20(金) | TikTok | **「ドパガキ度」を測ってみた（構想中）** | 「SNSと動画の使用時間で『ドパガキ度』が出る機能、作るか迷ってる。自分の今週のスクリーンタイムは…」。創業者自身のスクリーンタイムの画面（実データ）＋「欲しい？」 | 創業者の端末のスクリーンタイム画面＋町の動画 | コメントの「欲しい／いらない」の比率。※自分のデータだけを使う |
+| 11/21(土) | TikTok・X | **なぜ「75日」なのか** | 「75日は約2か月半。終わりが見える長さで、『のこり◯日』が毎日見えると続く気がする」。プロトタイプで一時「75週」と表示していた経緯を話すかどうかは、創業者が判断する。上部のカード「23日目／75日・のこり52日」のアップ。※食事や飲酒のルールには触れない | 75日カードのアップ＋町の全景 | 「自分もやる」系のコメント数（Cの裏付け） |
 | 11/21(土) | X | 週末の町 | 「夜に町を開いたら、まだ図書館で本を読んでる友達がいる、をやりたい」 | 夜の図書館（`ss/desktop-night-profile.png` 系の夜カット） | いいね |
 | 11/22(日) | X | **1週目の振り返り（数字を公開）** | 広告テストを始めたこと、LPの表示数・登録数（概算でOK）、学んだこと。**CPAそのものはまだ出さない**（判定前のため） | 数字のスクショ | 応援リプライ数 |
 | 11/23(月) | X・TikTok | **「今年、友達と何回会った？」（構想中）** | 「年末に『今年◯◯と12回会った』が写真付きで出る機能、欲しい？」。ごはん・カフェ・ジムなど、何で会ったかは問わない | 町の広場に友達のキャラが集まるカット＋テキスト | 引用リポストで実際の回数を書いてくれる人の数 |
